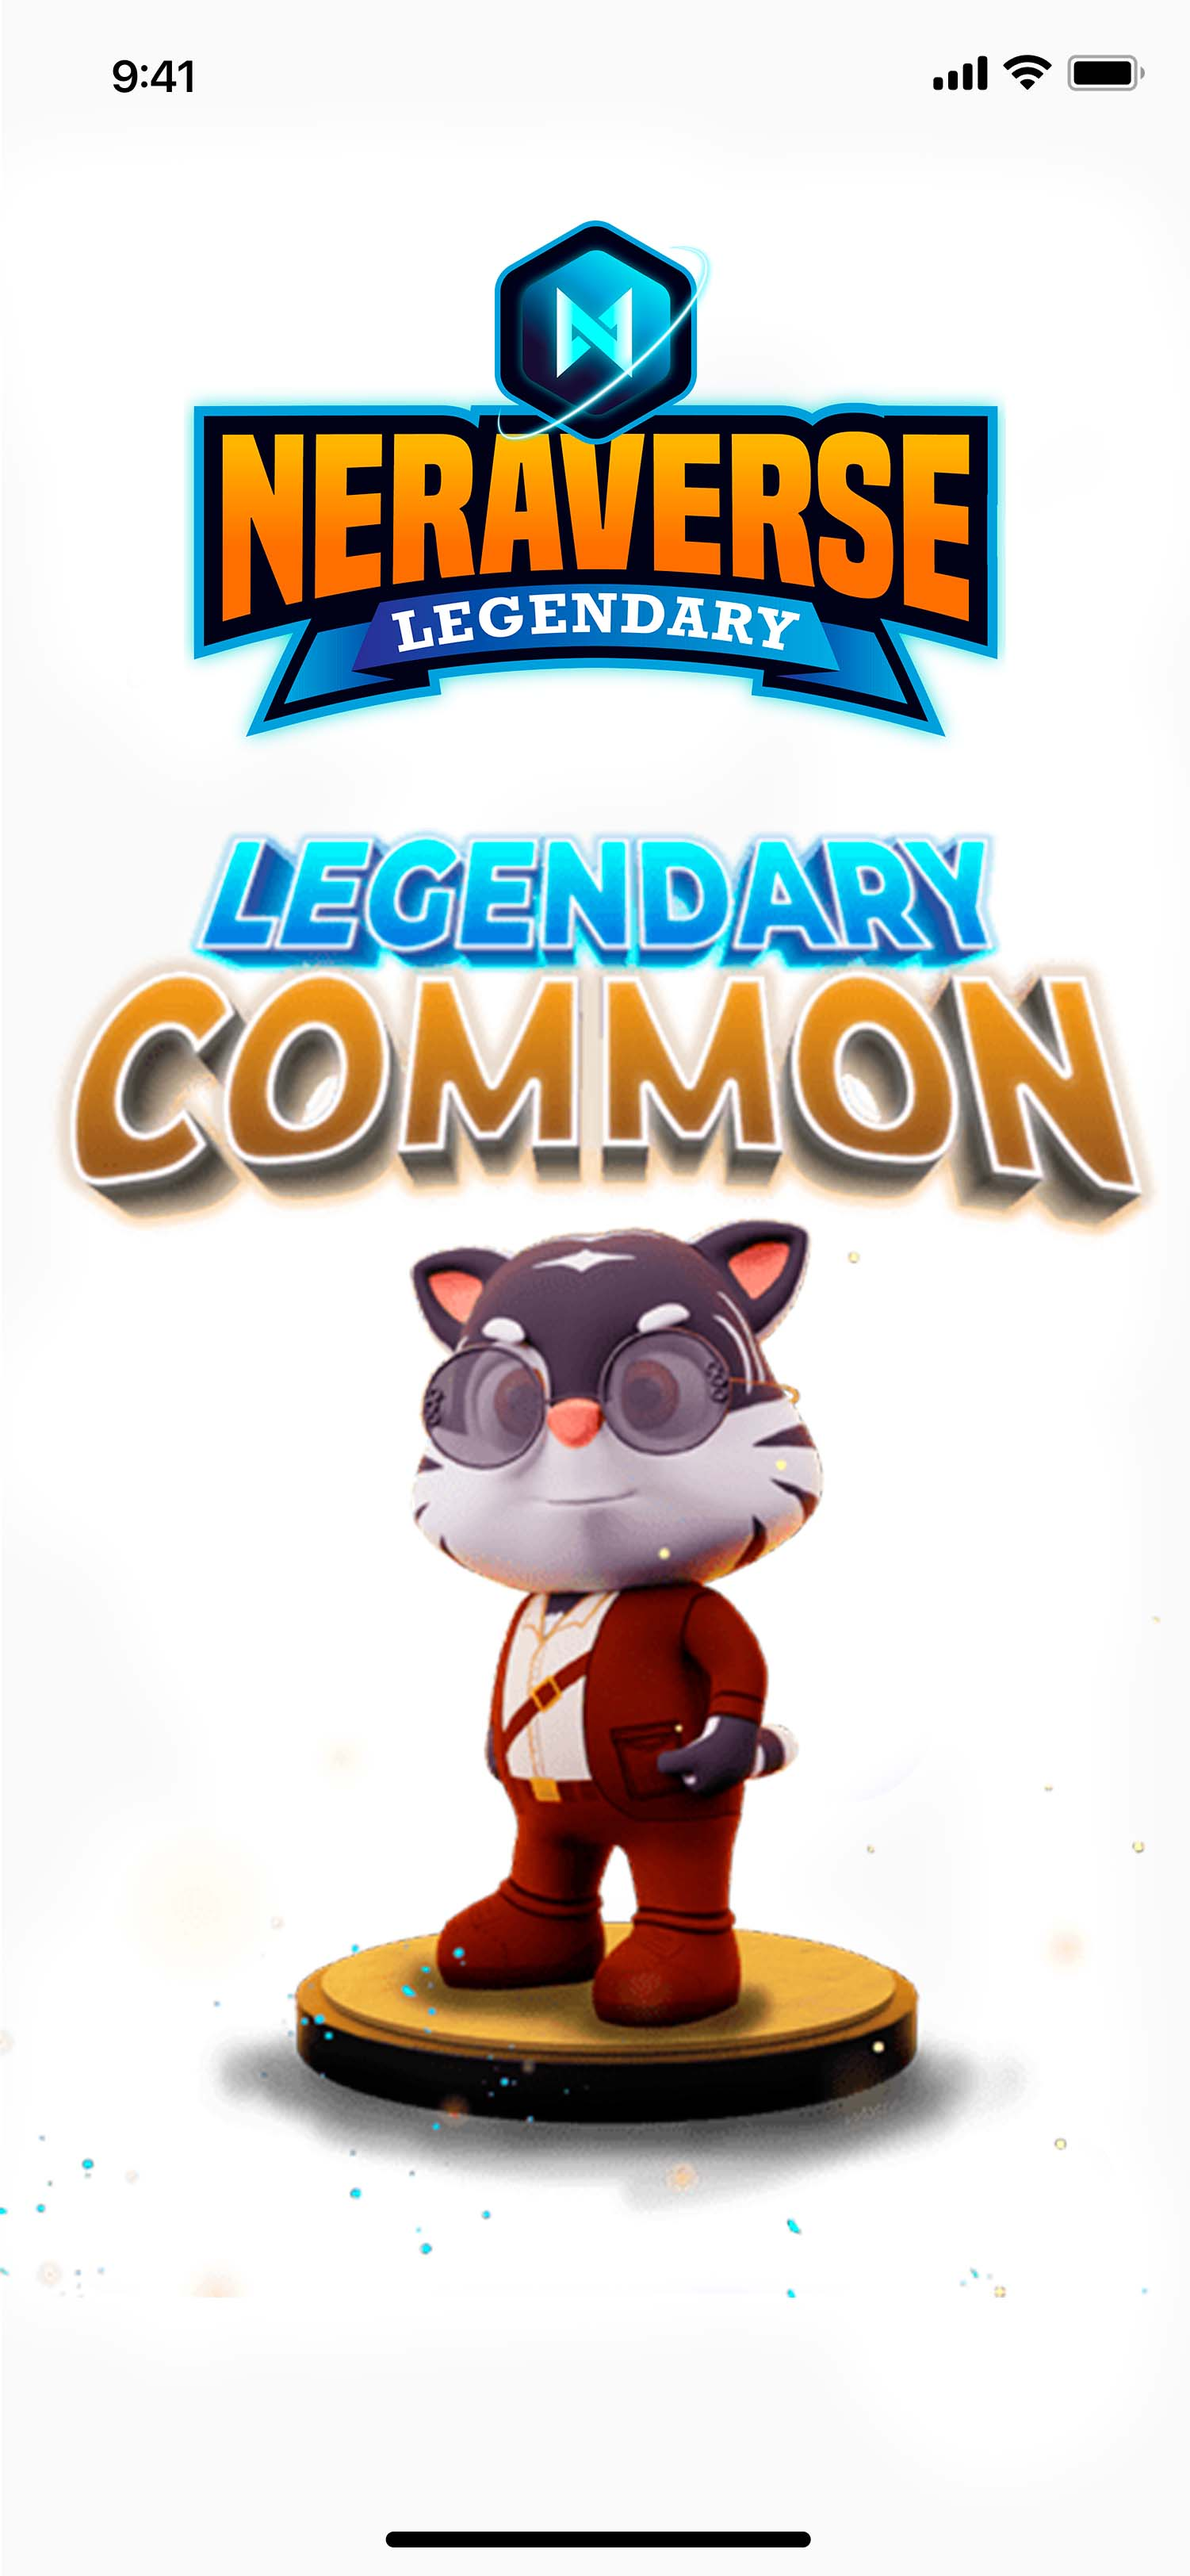
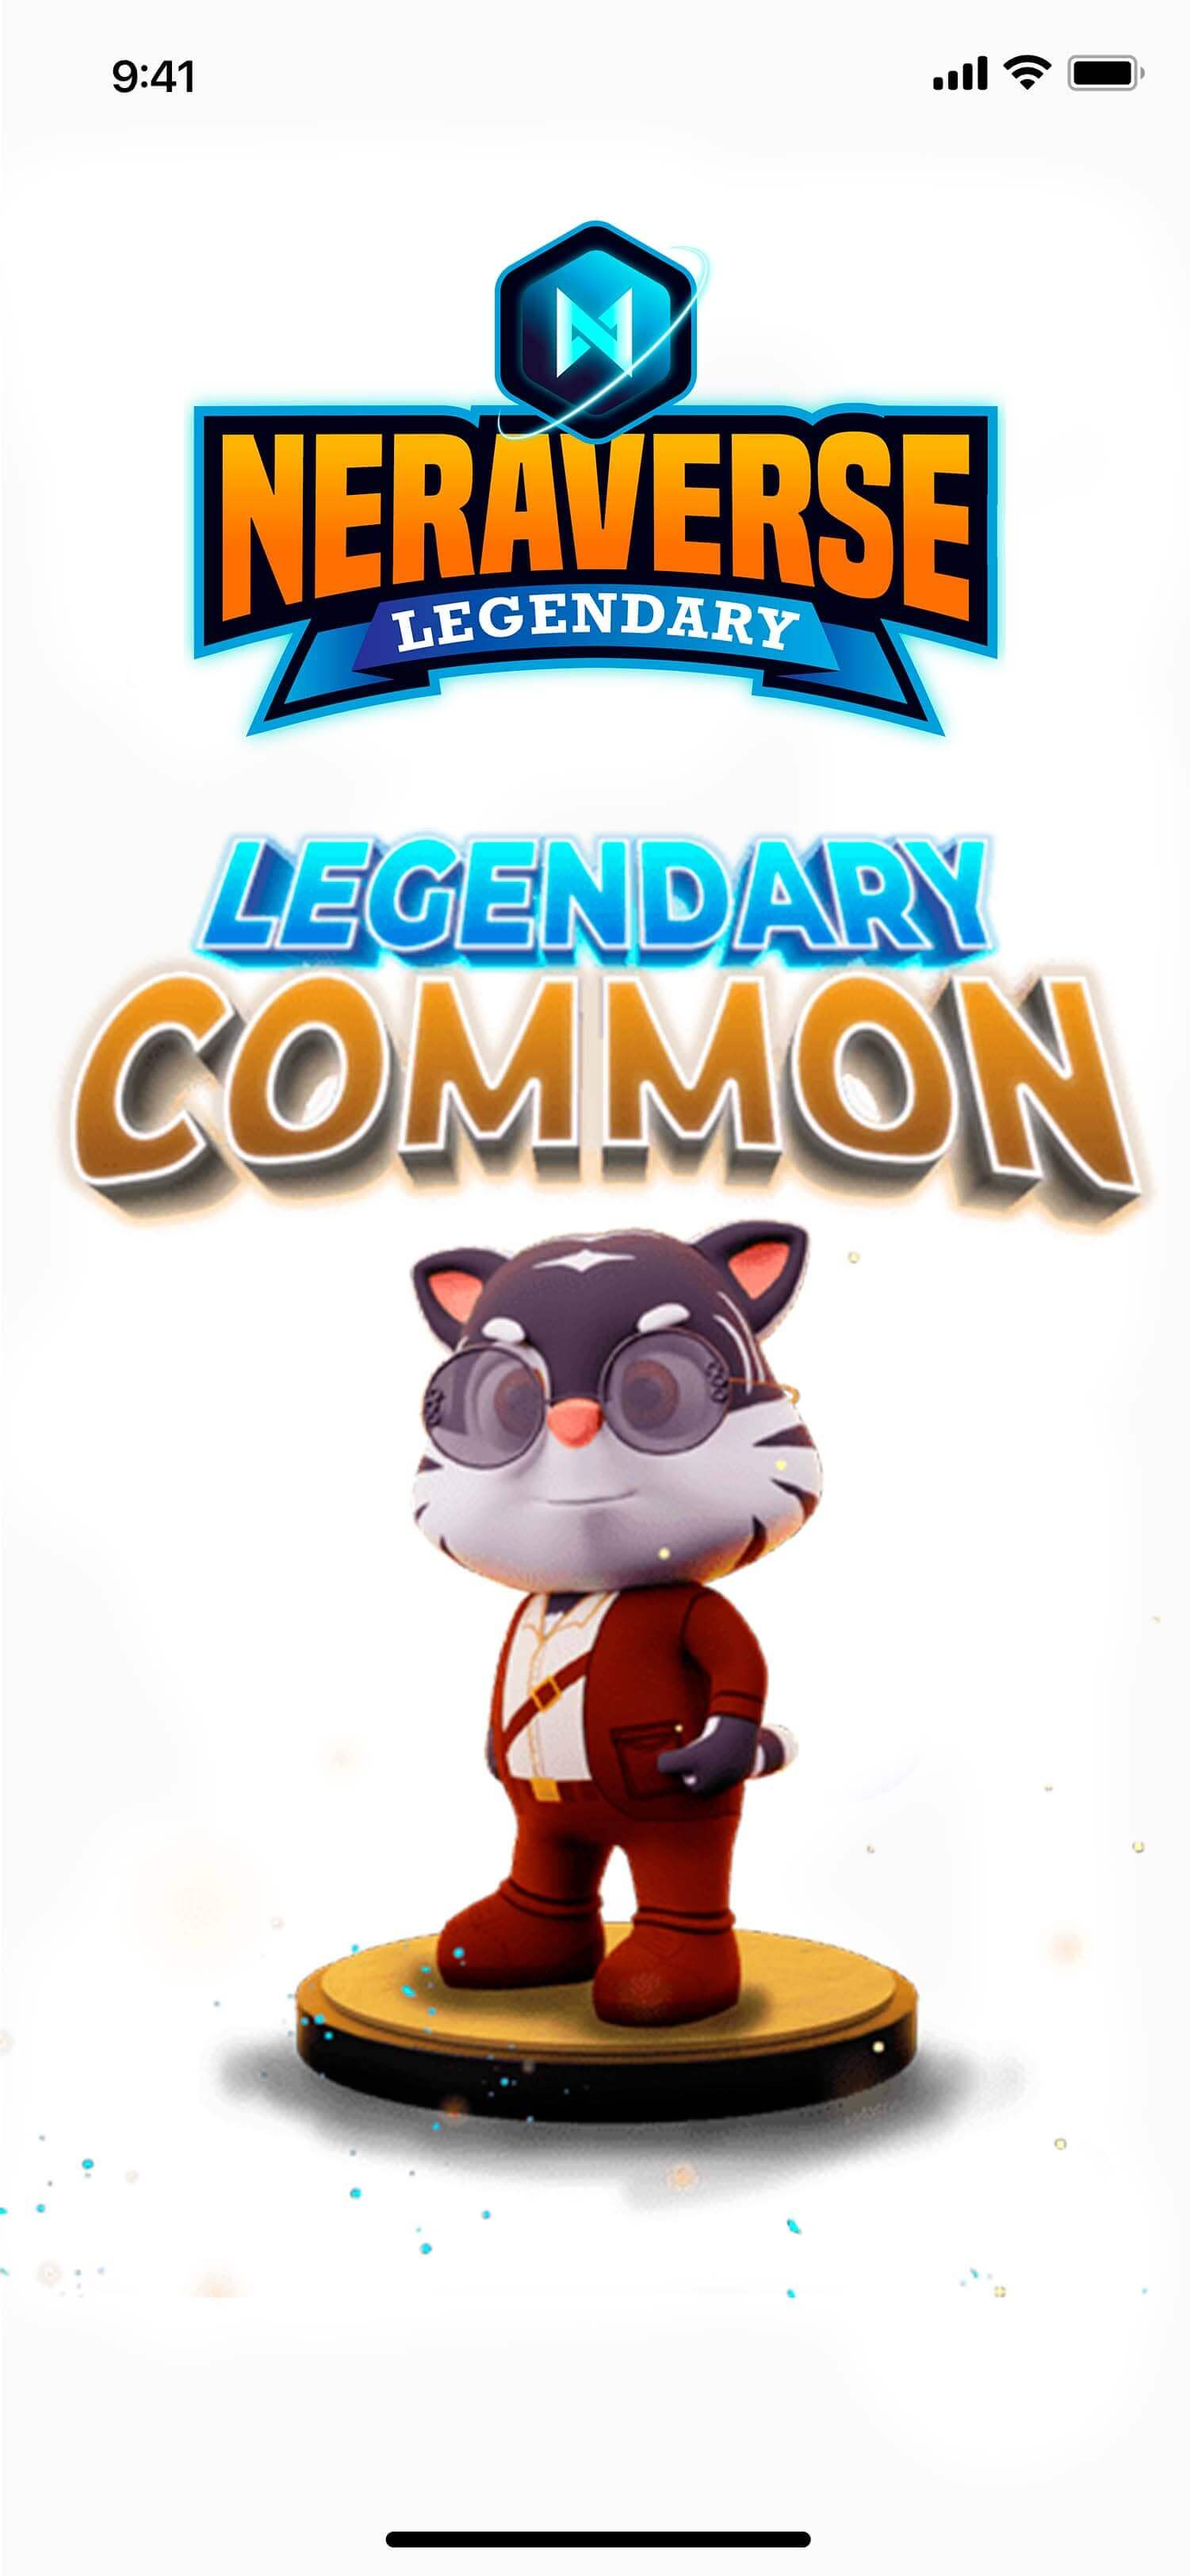
optimizacion de imagenes y arreglos

Changed region(s): [[0.4597, 0.1555, 0.4903, 0.1866]]

diff --git a/assets/css/style.css b/assets/css/style.css
@@ -4677,10 +4677,11 @@ header.style-6 {
     bottom: -1px;
     left: 0;
     width: 100%;
-    height: 30px;
+    height: 50px;
     border-top-left-radius: 30px;
     border-top-right-radius: 30px;
-    background-color: #fff;
+    /* le damos color degradado */
+    background:linear-gradient(to top, #fff, transparent);
     z-index: 10; }
   .screenshots.style-4 .screenshots-slider {
     position: absolute;
@@ -7451,6 +7452,11 @@ footer.style-6 {
     letter-spacing: normal;
   }
 }
+@media screen and (max-width: 480px){
+  .nera-section .screenshots img{
+    max-width: 125% !important;
+  }
+}
 .features-card.style-5 .icon img{
   width: auto;
   height: 80px !important;
@@ -7523,4 +7529,8 @@ footer.style-6 {
 footer .idiomas li a,
 .nav-side li a{
   cursor: pointer;
+}
+
+.about.style-4 .bottom-wave {
+  background: #F3F7FE;
 }

diff --git a/index.html b/index.html
@@ -650,7 +650,7 @@
                 <img src="assets/img/about/intg_back.png" alt="" class="intg-back">
             </div>
             <img src="assets/img/about/about_s4_wave.png" alt="" class="top-wave">
-            <img src="assets/img/about/about_s4_wave.png" alt="" class="bottom-wave">
+            <!-- <img src="assets/img/about/about_s4_wave.png" alt="" class="bottom-wave"> -->
         </section>
         <!-- ====== end about ====== -->
 

diff --git a/assets/js/main.js b/assets/js/main.js
@@ -157,7 +157,7 @@ $(function () {
 });
 
 AOS.init({
-  duration: 1500,
+  duration: 1000,
   easing: "ease-in-out",
 });
 
@@ -430,7 +430,7 @@ $(document).ready(function () {
     loop: true,
     breakpoints: {
       0: {
-        slidesPerView: 2,
+        slidesPerView: 1,
       },
       480: {
         slidesPerView: 2,
